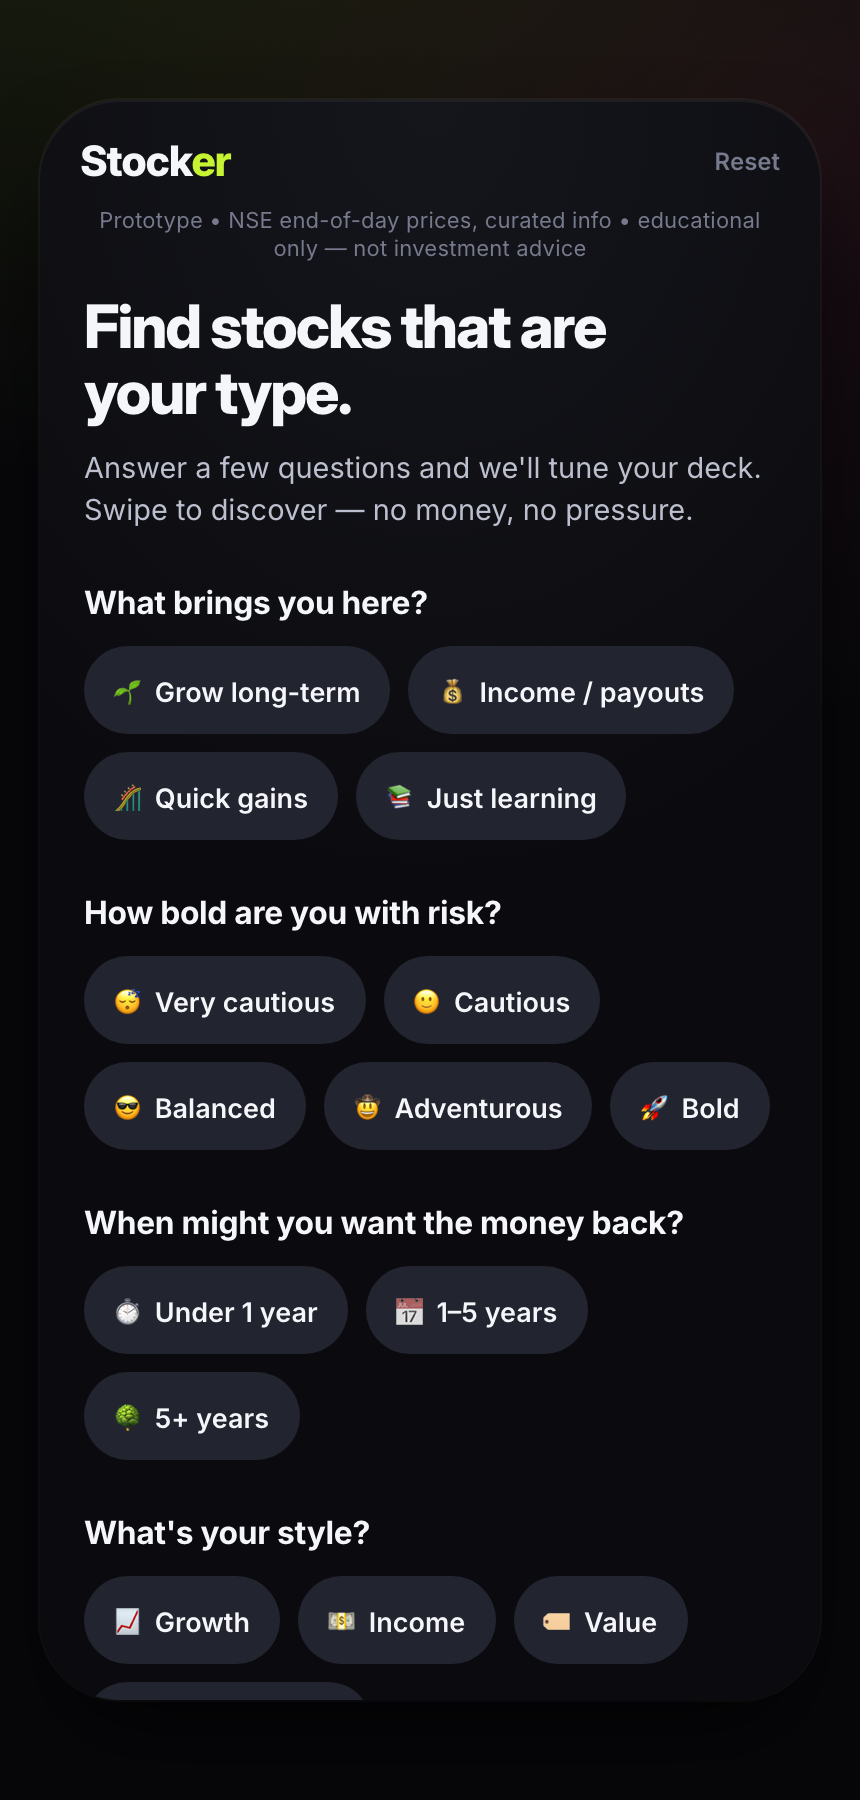
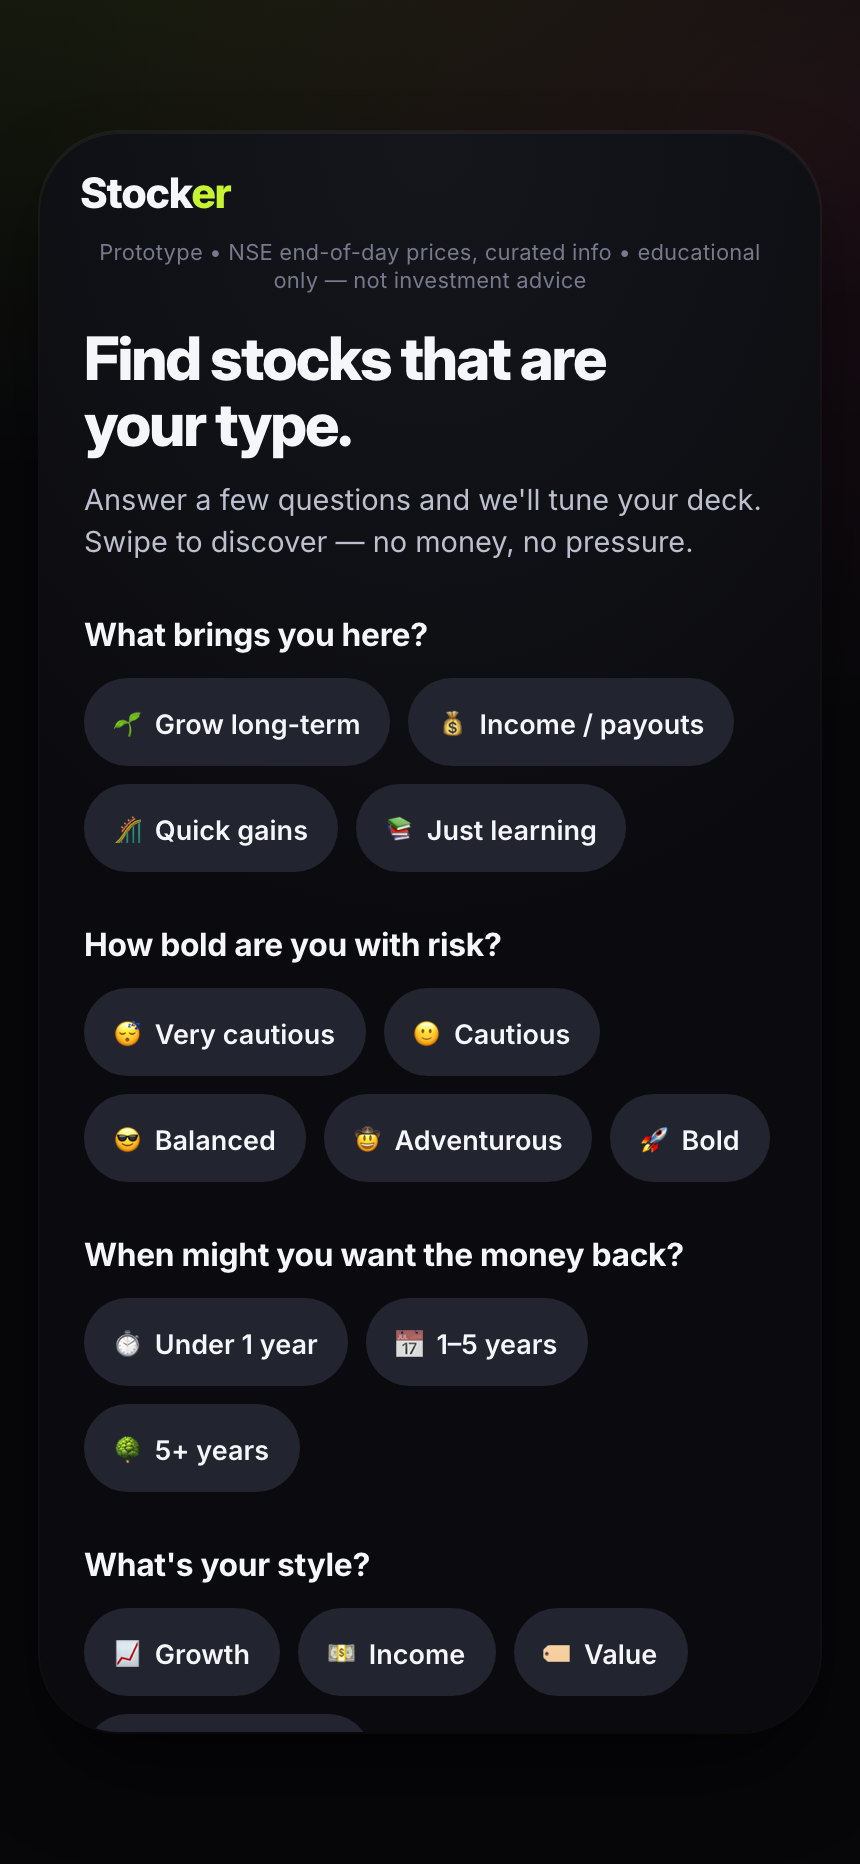
assets: fresh 7-screenshot gallery for the new build + freqTxt spacing fix
New shots reflect the current app: onboarding, first-run swipe tutorial,
deck card (with logos), match, Matches shortlist, invested Portfolio, You.
Also fix 'one-time' spacing in the investment summary copy.

diff --git a/index.html b/index.html
@@ -1295,7 +1295,7 @@ function renderMatches(){
   head.innerHTML=`<div><div class="pf-label">Your matches</div>
     <div class="pf-total" style="font-size:30px">${watchlist.length} match${watchlist.length===1?'':'es'}</div>
     <div class="pf-sub"><span class="muted">${investedTk.size?investedTk.size+' invested · ':''}stocks you liked — yet to invest</span></div></div>`;
-  const freqTxt = plan ? (plan.freq==='once'?'one-time':plan.freq==='week'?'/week':'/month') : '';
+  const freqTxt = plan ? (plan.freq==='once'?' one-time':plan.freq==='week'?'/week':'/month') : '';
   if(plan){
     inv.innerHTML=`<div class="pi-top"><div>
         <div class="pi-t">Investing ${money0(plan.amt)}${freqTxt} ✓</div>
@@ -1352,7 +1352,7 @@ function renderPortfolio(){
 
   fillBrokerRow(document.getElementById('pf-broker'), renderPortfolio);
 
-  const freqTxt = plan ? (plan.freq==='once'?'one-time':plan.freq==='week'?'/week':'/month') : '';
+  const freqTxt = plan ? (plan.freq==='once'?' one-time':plan.freq==='week'?'/week':'/month') : '';
   let act=openInvest;
   if(plan && connected){
     inv.innerHTML=`<div class="pi-top"><div>